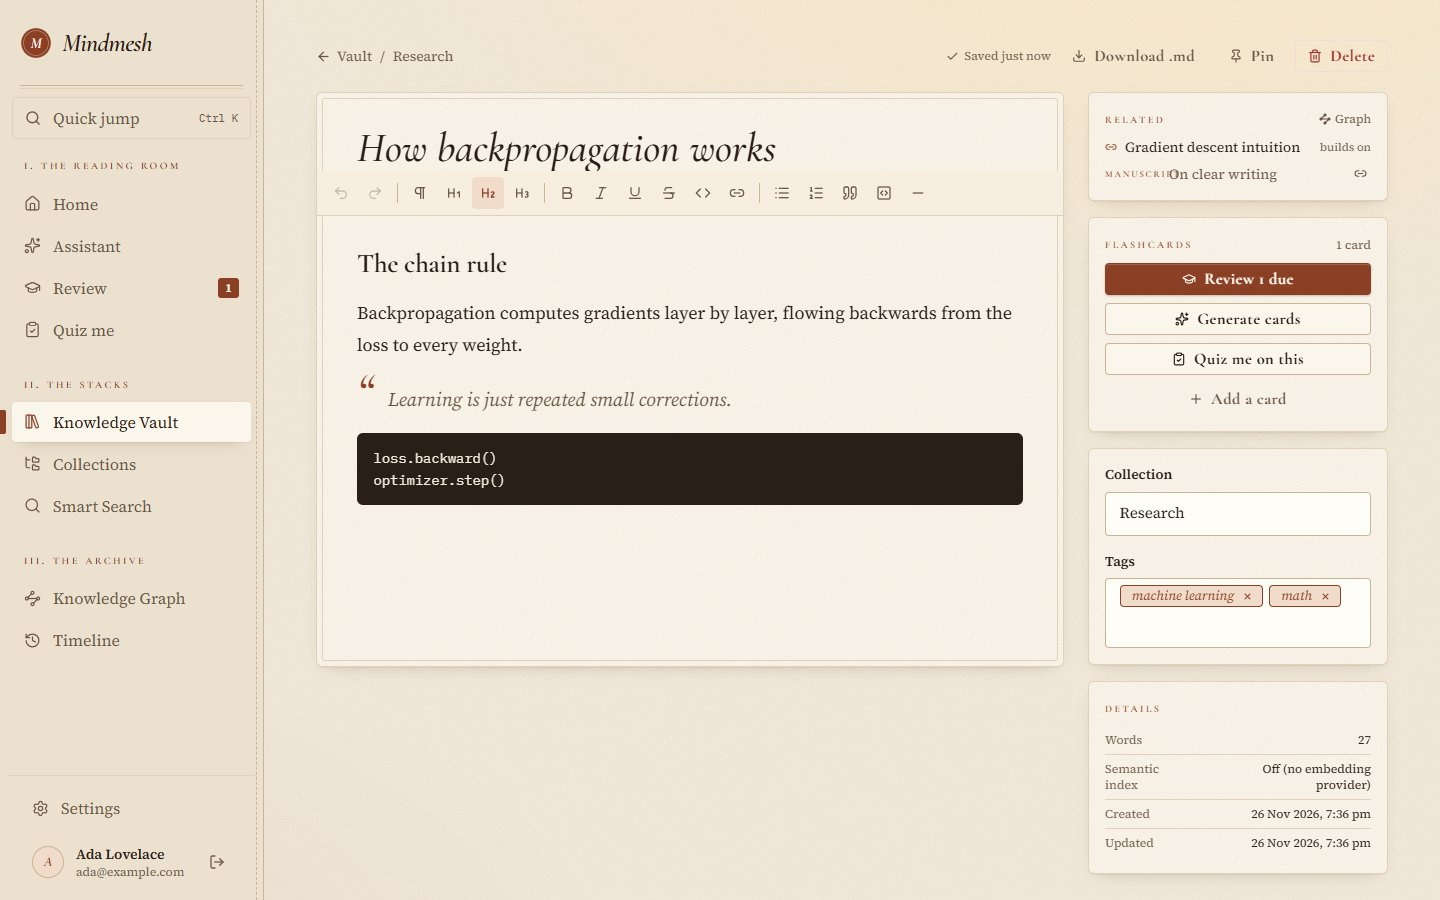
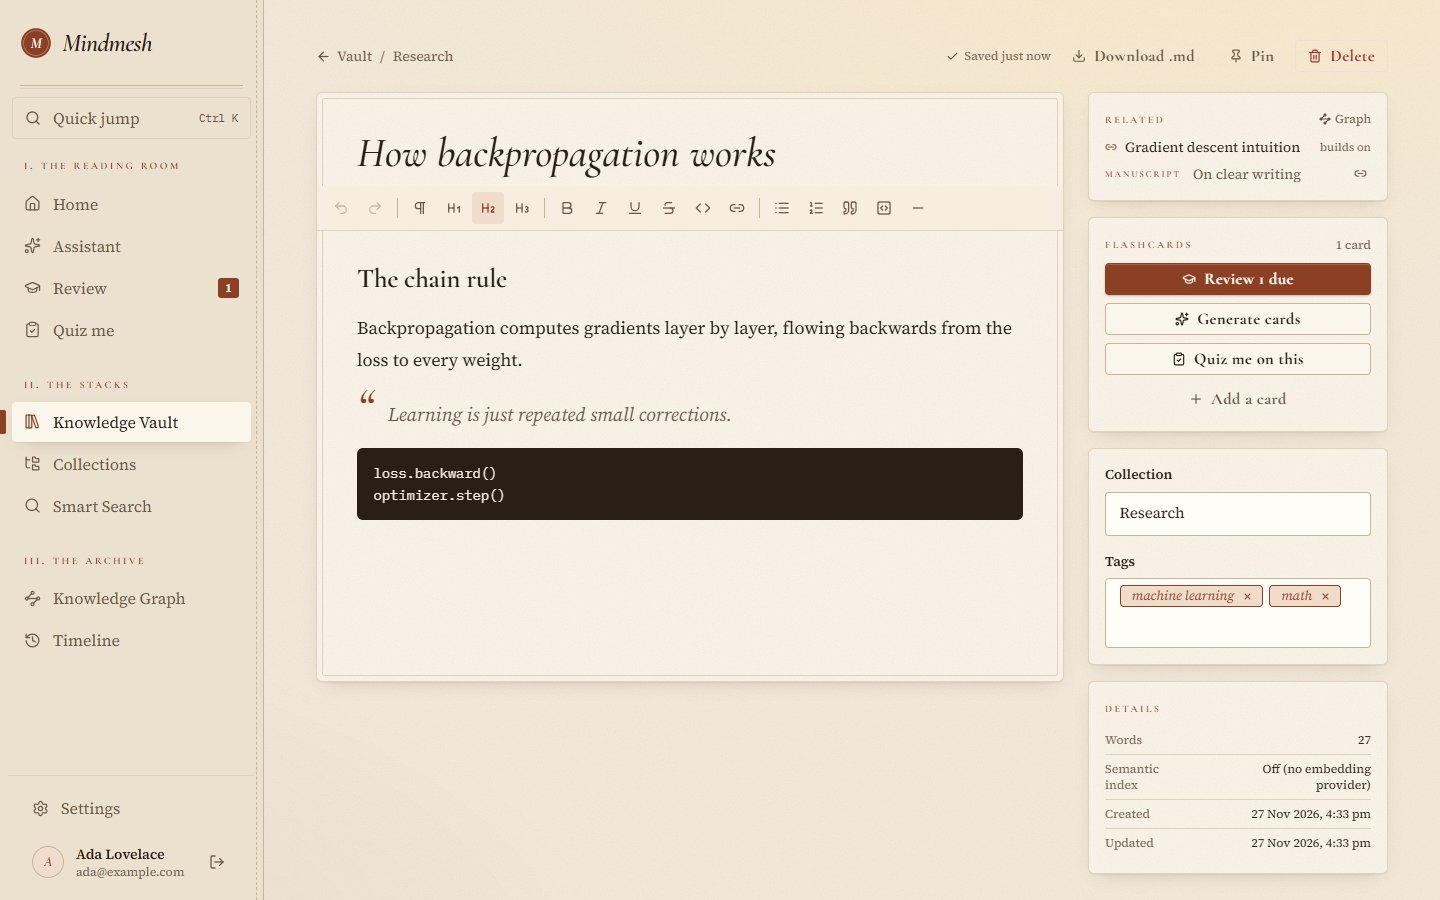
Fix display and contrast problems and update screenshots

diff --git a/client/src/pages/HomePage.jsx b/client/src/pages/HomePage.jsx
@@ -77,7 +77,7 @@ function RecentList({ title, items, empty }) {
           {items.map((r) => (
             <li key={r.id}>
               <Link to={`/vault/${r.id}`} className="group flex items-center gap-2.5 rounded-control px-2 py-1.5 hover:bg-sunken">
-                <TypeBadge type={r.type} className="w-[4.5rem] shrink-0" />
+                <TypeBadge type={r.type} className="w-[4.5rem] shrink-0 library:w-20" />
                 <span className="min-w-0 flex-1 truncate font-ui text-sm text-ink group-hover:text-accent library:font-display library:text-base">{r.title}</span>
                 <span className="shrink-0 font-ui text-xs text-ink-faint">{relativeTime(r.lastAccessedAt || r.createdAt)}</span>
               </Link>
@@ -256,7 +256,7 @@ export default function HomePage() {
               <QuickAction icon={FileText} label="New note" hint="Start writing with autosave" onClick={newNote} busy={creating} />
               <QuickAction icon={Upload} label="Upload a document" hint="PDF, Word, text, Markdown…" to="/vault?upload=1" tone="accent-3" />
               <QuickAction icon={Link2} label="Save a link" hint="Keep a web page and its text" to="/vault?link=1" tone="accent-2" />
-              <QuickAction icon={MessageSquareText} label="Start a conversation" hint="General AI or My Knowledge" to="/assistant" tone="accent-2" />
+              <QuickAction icon={MessageSquareText} label="Start a conversation" hint="General AI, My Knowledge or Both" to="/assistant" tone="accent-2" />
               <QuickAction
                 icon={GraduationCap}
                 label="Review flashcards"

diff --git a/client/src/pages/graph/GraphPage.jsx b/client/src/pages/graph/GraphPage.jsx
@@ -119,7 +119,7 @@ function NodePanel({ node, edges, nodesById, onClose, onConnect, onRemoveConnect
             <ul className="space-y-1">
               {items.map(({ edge, other }) => (
                 <li key={edge.id} className="flex items-center gap-2">
-                  <TypeBadge type={other.data.resourceType} withIcon={false} className="w-16 shrink-0" />
+                  <TypeBadge type={other.data.resourceType} withIcon={false} className="w-16 shrink-0 library:w-20" />
                   <Link to={`/vault/${other.data.resourceId}`} className="min-w-0 flex-1 truncate font-ui text-sm text-ink hover:text-accent">
                     {other.data.label}
                   </Link>
@@ -488,7 +488,7 @@ function GraphCanvas() {
               {matches.slice(0, 10).map((n) => (
                 <li key={n.id}>
                   <button type="button" onClick={() => goTo(n)} className="flex w-full items-center gap-2 rounded-control px-2 py-1.5 text-left font-ui text-sm text-ink-muted hover:bg-sunken hover:text-ink">
-                    {n.data.kind === 'resource' ? <TypeBadge type={n.data.resourceType} withIcon={false} className="w-14 shrink-0" /> : n.data.kind === 'topic' ? <Hash size={12} /> : <Folder size={12} />}
+                    {n.data.kind === 'resource' ? <TypeBadge type={n.data.resourceType} withIcon={false} className="w-14 shrink-0 library:w-20" /> : n.data.kind === 'topic' ? <Hash size={12} /> : <Folder size={12} />}
                     <span className="truncate">{n.data.label}</span>
                   </button>
                 </li>

diff --git a/client/src/pages/vault/NoteView.jsx b/client/src/pages/vault/NoteView.jsx
@@ -150,7 +150,7 @@ export default function NoteView({ resource, onChange, autoFocusTitle, renderSta
                 document.querySelector('.ProseMirror')?.focus();
               }
             }}
-            className="w-full bg-transparent font-display text-3xl text-ink outline-none placeholder:text-ink-faint sm:text-4xl library:text-[2.6rem] library:italic"
+            className="w-full bg-transparent pb-1 font-display text-3xl leading-snug text-ink outline-none placeholder:text-ink-faint sm:text-4xl sm:leading-snug library:text-[2.6rem] library:italic"
           />
         </div>
         <RichTextEditor

diff --git a/client/src/pages/auth/AuthLayout.jsx b/client/src/pages/auth/AuthLayout.jsx
@@ -98,7 +98,7 @@ export default function AuthLayout({ children }) {
                 className={cn(
                   'mm-chip',
                   'studio:border-white/15 studio:bg-white/5 studio:text-[#d8d4e6] studio:hover:text-white',
-                  'studio:aria-checked:border-[#f4c95d] studio:aria-checked:text-[#f4c95d]',
+                  'studio:aria-checked:border-[#f4c95d] studio:aria-checked:bg-white/10 studio:aria-checked:text-[#f4c95d]',
                   'aria-checked:border-accent aria-checked:bg-accent-soft aria-checked:text-accent'
                 )}
               >

diff --git a/client/src/components/library/RelatedPanel.jsx b/client/src/components/library/RelatedPanel.jsx
@@ -62,7 +62,7 @@ export default function RelatedPanel({ resourceId }) {
           ))}
           {showSimilar && data.similar.map((s) => (
             <li key={s.id} className="flex items-center gap-2">
-              <TypeBadge type={s.type} withIcon={false} className="w-14 shrink-0" />
+              <TypeBadge type={s.type} withIcon={false} className="w-14 shrink-0 library:w-20" />
               <Link to={`/vault/${s.id}`} className="min-w-0 flex-1 truncate font-ui text-sm text-ink-muted hover:text-accent">
                 {s.title}
               </Link>

diff --git a/client/src/themes/themes.css b/client/src/themes/themes.css
@@ -80,7 +80,7 @@
   --mm-accent-3-soft: #d9f3e8;
   --mm-butter: #f4c95d;
   --mm-butter-soft: #fff3cf;
-  --mm-danger: #d0414b;
+  --mm-danger: #b4303b;
   --mm-danger-soft: #fde3e4;
   --mm-success: #1f7356;
   --mm-success-soft: #d9f3e8;
